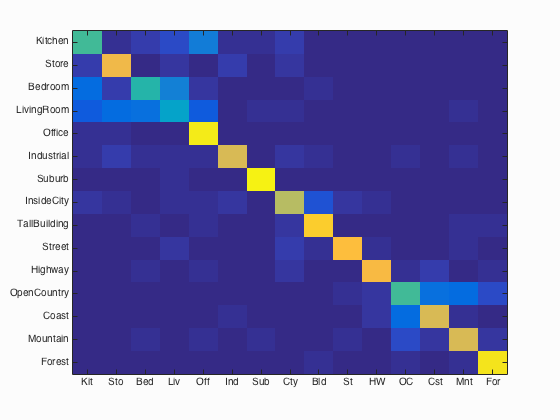
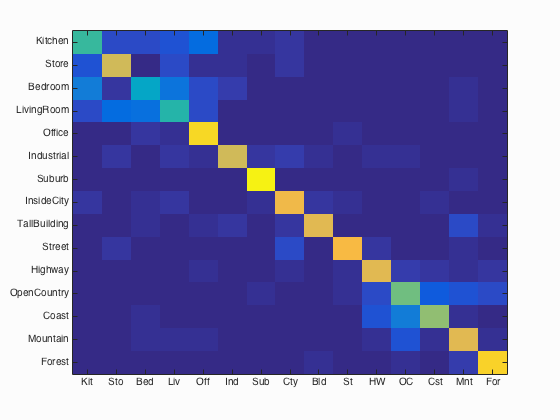
Updated accuracies

diff --git a/code/results_webpage/index.html b/code/results_webpage/index.html
@@ -36,7 +36,7 @@ h1 {
 <img src="confusion_matrix.png">
 
 <br>
-Accuracy (mean of diagonal of confusion matrix) is 0.739
+Accuracy (mean of diagonal of confusion matrix) is 0.721
 <p>
 
 <table border=0 cellpadding=4 cellspacing=1>
@@ -50,183 +50,183 @@ Accuracy (mean of diagonal of confusion matrix) is 0.739
 </tr>
 <tr>
 <td>Kitchen</td>
-<td>0.520</td>
-<td bgcolor=LightBlue><img src="thumbnails/Kitchen_image_0140.jpg" width=75.0000000000 height=100.0000000000></td>
-<td bgcolor=LightBlue><img src="thumbnails/Kitchen_image_0106.jpg" width=75.0000000000 height=100.0000000000></td>
-<td bgcolor=LightGreen><img src="thumbnails/Kitchen_image_0071.jpg" width=75.0000000000 height=100.0000000000></td>
+<td>0.500</td>
+<td bgcolor=LightBlue><img src="thumbnails/Kitchen_image_0081.jpg" width=75.0000000000 height=133.0000000000></td>
+<td bgcolor=LightBlue><img src="thumbnails/Kitchen_image_0117.jpg" width=75.0000000000 height=113.0000000000></td>
 <td bgcolor=LightGreen><img src="thumbnails/Kitchen_image_0070.jpg" width=75.0000000000 height=113.0000000000></td>
+<td bgcolor=LightGreen><img src="thumbnails/Kitchen_image_0033.jpg" width=75.0000000000 height=57.0000000000></td>
 <td bgcolor=LightCoral><img src="thumbnails/Store_image_0022.jpg" width=75.0000000000 height=88.0000000000><br><small>Store</small></td>
-<td bgcolor=LightCoral><img src="thumbnails/LivingRoom_image_0049.jpg" width=75.0000000000 height=106.0000000000><br><small>LivingRoom</small></td>
-<td bgcolor=#FFBB55><img src="thumbnails/Kitchen_image_0017.jpg" width=75.0000000000 height=100.0000000000><br><small>Office</small></td>
-<td bgcolor=#FFBB55><img src="thumbnails/Kitchen_image_0075.jpg" width=75.0000000000 height=107.0000000000><br><small>Industrial</small></td>
+<td bgcolor=LightCoral><img src="thumbnails/LivingRoom_image_0025.jpg" width=76.0000000000 height=57.0000000000><br><small>LivingRoom</small></td>
+<td bgcolor=#FFBB55><img src="thumbnails/Kitchen_image_0031.jpg" width=75.0000000000 height=57.0000000000><br><small>Office</small></td>
+<td bgcolor=#FFBB55><img src="thumbnails/Kitchen_image_0009.jpg" width=75.0000000000 height=100.0000000000><br><small>Office</small></td>
 </tr>
 <tr>
 <td>Store</td>
-<td>0.800</td>
-<td bgcolor=LightBlue><img src="thumbnails/Store_image_0093.jpg" width=75.0000000000 height=100.0000000000></td>
-<td bgcolor=LightBlue><img src="thumbnails/Store_image_0137.jpg" width=75.0000000000 height=93.0000000000></td>
-<td bgcolor=LightGreen><img src="thumbnails/Store_image_0003.jpg" width=75.0000000000 height=100.0000000000></td>
-<td bgcolor=LightGreen><img src="thumbnails/Store_image_0024.jpg" width=75.0000000000 height=113.0000000000></td>
-<td bgcolor=LightCoral><img src="thumbnails/Office_image_0001.jpg" width=75.0000000000 height=101.0000000000><br><small>Office</small></td>
-<td bgcolor=LightCoral><img src="thumbnails/Industrial_image_0029.jpg" width=75.0000000000 height=63.0000000000><br><small>Industrial</small></td>
-<td bgcolor=#FFBB55><img src="thumbnails/Store_image_0027.jpg" width=75.0000000000 height=100.0000000000><br><small>LivingRoom</small></td>
-<td bgcolor=#FFBB55><img src="thumbnails/Store_image_0043.jpg" width=75.0000000000 height=100.0000000000><br><small>InsideCity</small></td>
+<td>0.740</td>
+<td bgcolor=LightBlue><img src="thumbnails/Store_image_0094.jpg" width=75.0000000000 height=113.0000000000></td>
+<td bgcolor=LightBlue><img src="thumbnails/Store_image_0105.jpg" width=75.0000000000 height=57.0000000000></td>
+<td bgcolor=LightGreen><img src="thumbnails/Store_image_0065.jpg" width=75.0000000000 height=100.0000000000></td>
+<td bgcolor=LightGreen><img src="thumbnails/Store_image_0010.jpg" width=75.0000000000 height=104.0000000000></td>
+<td bgcolor=LightCoral><img src="thumbnails/Bedroom_image_0047.jpg" width=75.0000000000 height=101.0000000000><br><small>Bedroom</small></td>
+<td bgcolor=LightCoral><img src="thumbnails/Industrial_image_0038.jpg" width=75.0000000000 height=94.0000000000><br><small>Industrial</small></td>
+<td bgcolor=#FFBB55><img src="thumbnails/Store_image_0026.jpg" width=75.0000000000 height=103.0000000000><br><small>LivingRoom</small></td>
+<td bgcolor=#FFBB55><img src="thumbnails/Store_image_0022.jpg" width=75.0000000000 height=88.0000000000><br><small>Kitchen</small></td>
 </tr>
 <tr>
 <td>Bedroom</td>
-<td>0.480</td>
-<td bgcolor=LightBlue><img src="thumbnails/Bedroom_image_0139.jpg" width=75.0000000000 height=50.0000000000></td>
-<td bgcolor=LightBlue><img src="thumbnails/Bedroom_image_0109.jpg" width=75.0000000000 height=106.0000000000></td>
-<td bgcolor=LightGreen><img src="thumbnails/Bedroom_image_0077.jpg" width=75.0000000000 height=90.0000000000></td>
-<td bgcolor=LightGreen><img src="thumbnails/Bedroom_image_0071.jpg" width=75.0000000000 height=112.0000000000></td>
-<td bgcolor=LightCoral><img src="thumbnails/Kitchen_image_0062.jpg" width=75.0000000000 height=113.0000000000><br><small>Kitchen</small></td>
-<td bgcolor=LightCoral><img src="thumbnails/Industrial_image_0046.jpg" width=75.0000000000 height=57.0000000000><br><small>Industrial</small></td>
-<td bgcolor=#FFBB55><img src="thumbnails/Bedroom_image_0056.jpg" width=75.0000000000 height=113.0000000000><br><small>LivingRoom</small></td>
-<td bgcolor=#FFBB55><img src="thumbnails/Bedroom_image_0026.jpg" width=75.0000000000 height=95.0000000000><br><small>Kitchen</small></td>
+<td>0.380</td>
+<td bgcolor=LightBlue><img src="thumbnails/Bedroom_image_0216.jpg" width=75.0000000000 height=100.0000000000></td>
+<td bgcolor=LightBlue><img src="thumbnails/Bedroom_image_0046.jpg" width=75.0000000000 height=101.0000000000></td>
+<td bgcolor=LightGreen><img src="thumbnails/Bedroom_image_0007.jpg" width=75.0000000000 height=101.0000000000></td>
+<td bgcolor=LightGreen><img src="thumbnails/Bedroom_image_0035.jpg" width=75.0000000000 height=115.0000000000></td>
+<td bgcolor=LightCoral><img src="thumbnails/Kitchen_image_0027.jpg" width=75.0000000000 height=57.0000000000><br><small>Kitchen</small></td>
+<td bgcolor=LightCoral><img src="thumbnails/LivingRoom_image_0064.jpg" width=75.0000000000 height=100.0000000000><br><small>LivingRoom</small></td>
+<td bgcolor=#FFBB55><img src="thumbnails/Bedroom_image_0037.jpg" width=75.0000000000 height=95.0000000000><br><small>Industrial</small></td>
+<td bgcolor=#FFBB55><img src="thumbnails/Bedroom_image_0073.jpg" width=75.0000000000 height=112.0000000000><br><small>Mountain</small></td>
 </tr>
 <tr>
 <td>LivingRoom</td>
-<td>0.360</td>
-<td bgcolor=LightBlue><img src="thumbnails/LivingRoom_image_0115.jpg" width=75.0000000000 height=111.0000000000></td>
-<td bgcolor=LightBlue><img src="thumbnails/LivingRoom_image_0170.jpg" width=75.0000000000 height=113.0000000000></td>
-<td bgcolor=LightGreen><img src="thumbnails/LivingRoom_image_0033.jpg" width=75.0000000000 height=100.0000000000></td>
-<td bgcolor=LightGreen><img src="thumbnails/LivingRoom_image_0005.jpg" width=75.0000000000 height=93.0000000000></td>
-<td bgcolor=LightCoral><img src="thumbnails/Kitchen_image_0022.jpg" width=75.0000000000 height=57.0000000000><br><small>Kitchen</small></td>
-<td bgcolor=LightCoral><img src="thumbnails/Kitchen_image_0035.jpg" width=75.0000000000 height=57.0000000000><br><small>Kitchen</small></td>
-<td bgcolor=#FFBB55><img src="thumbnails/LivingRoom_image_0040.jpg" width=75.0000000000 height=114.0000000000><br><small>Kitchen</small></td>
-<td bgcolor=#FFBB55><img src="thumbnails/LivingRoom_image_0064.jpg" width=75.0000000000 height=100.0000000000><br><small>Office</small></td>
+<td>0.480</td>
+<td bgcolor=LightBlue><img src="thumbnails/LivingRoom_image_0001.jpg" width=75.0000000000 height=111.0000000000></td>
+<td bgcolor=LightBlue><img src="thumbnails/LivingRoom_image_0220.jpg" width=75.0000000000 height=113.0000000000></td>
+<td bgcolor=LightGreen><img src="thumbnails/LivingRoom_image_0027.jpg" width=75.0000000000 height=100.0000000000></td>
+<td bgcolor=LightGreen><img src="thumbnails/LivingRoom_image_0032.jpg" width=75.0000000000 height=100.0000000000></td>
+<td bgcolor=LightCoral><img src="thumbnails/Bedroom_image_0062.jpg" width=75.0000000000 height=114.0000000000><br><small>Bedroom</small></td>
+<td bgcolor=LightCoral><img src="thumbnails/InsideCity_image_0002.jpg" width=75.0000000000 height=75.0000000000><br><small>InsideCity</small></td>
+<td bgcolor=#FFBB55><img src="thumbnails/LivingRoom_image_0040.jpg" width=75.0000000000 height=114.0000000000><br><small>Store</small></td>
+<td bgcolor=#FFBB55><img src="thumbnails/LivingRoom_image_0056.jpg" width=75.0000000000 height=112.0000000000><br><small>Bedroom</small></td>
 </tr>
 <tr>
 <td>Office</td>
-<td>0.960</td>
-<td bgcolor=LightBlue><img src="thumbnails/Office_image_0129.jpg" width=75.0000000000 height=105.0000000000></td>
-<td bgcolor=LightBlue><img src="thumbnails/Office_image_0210.jpg" width=75.0000000000 height=97.0000000000></td>
-<td bgcolor=LightGreen><img src="thumbnails/Office_image_0063.jpg" width=75.0000000000 height=128.0000000000></td>
-<td bgcolor=LightGreen><img src="thumbnails/Office_image_0037.jpg" width=75.0000000000 height=108.0000000000></td>
-<td bgcolor=LightCoral><img src="thumbnails/InsideCity_image_0002.jpg" width=75.0000000000 height=75.0000000000><br><small>InsideCity</small></td>
-<td bgcolor=LightCoral><img src="thumbnails/Bedroom_image_0067.jpg" width=75.0000000000 height=70.0000000000><br><small>Bedroom</small></td>
-<td bgcolor=#FFBB55><img src="thumbnails/Office_image_0001.jpg" width=75.0000000000 height=101.0000000000><br><small>Store</small></td>
-<td bgcolor=#FFBB55><img src="thumbnails/Office_image_0083.jpg" width=75.0000000000 height=108.0000000000><br><small>Kitchen</small></td>
+<td>0.920</td>
+<td bgcolor=LightBlue><img src="thumbnails/Office_image_0175.jpg" width=75.0000000000 height=123.0000000000></td>
+<td bgcolor=LightBlue><img src="thumbnails/Office_image_0132.jpg" width=75.0000000000 height=116.0000000000></td>
+<td bgcolor=LightGreen><img src="thumbnails/Office_image_0067.jpg" width=75.0000000000 height=117.0000000000></td>
+<td bgcolor=LightGreen><img src="thumbnails/Office_image_0038.jpg" width=75.0000000000 height=119.0000000000></td>
+<td bgcolor=LightCoral><img src="thumbnails/Kitchen_image_0029.jpg" width=75.0000000000 height=57.0000000000><br><small>Kitchen</small></td>
+<td bgcolor=LightCoral><img src="thumbnails/Kitchen_image_0012.jpg" width=75.0000000000 height=100.0000000000><br><small>Kitchen</small></td>
+<td bgcolor=#FFBB55><img src="thumbnails/Office_image_0064.jpg" width=75.0000000000 height=93.0000000000><br><small>LivingRoom</small></td>
+<td bgcolor=#FFBB55><img src="thumbnails/Office_image_0062.jpg" width=75.0000000000 height=110.0000000000><br><small>Bedroom</small></td>
 </tr>
 <tr>
 <td>Industrial</td>
-<td>0.760</td>
-<td bgcolor=LightBlue><img src="thumbnails/Industrial_image_0184.jpg" width=75.0000000000 height=113.0000000000></td>
-<td bgcolor=LightBlue><img src="thumbnails/Industrial_image_0147.jpg" width=75.0000000000 height=100.0000000000></td>
-<td bgcolor=LightGreen><img src="thumbnails/Industrial_image_0023.jpg" width=75.0000000000 height=85.0000000000></td>
-<td bgcolor=LightGreen><img src="thumbnails/Industrial_image_0067.jpg" width=75.0000000000 height=110.0000000000></td>
-<td bgcolor=LightCoral><img src="thumbnails/Coast_image_0007.jpg" width=75.0000000000 height=75.0000000000><br><small>Coast</small></td>
-<td bgcolor=LightCoral><img src="thumbnails/InsideCity_image_0004.jpg" width=75.0000000000 height=75.0000000000><br><small>InsideCity</small></td>
-<td bgcolor=#FFBB55><img src="thumbnails/Industrial_image_0054.jpg" width=75.0000000000 height=100.0000000000><br><small>Store</small></td>
-<td bgcolor=#FFBB55><img src="thumbnails/Industrial_image_0007.jpg" width=75.0000000000 height=117.0000000000><br><small>InsideCity</small></td>
+<td>0.740</td>
+<td bgcolor=LightBlue><img src="thumbnails/Industrial_image_0041.jpg" width=75.0000000000 height=81.0000000000></td>
+<td bgcolor=LightBlue><img src="thumbnails/Industrial_image_0230.jpg" width=75.0000000000 height=77.0000000000></td>
+<td bgcolor=LightGreen><img src="thumbnails/Industrial_image_0066.jpg" width=75.0000000000 height=123.0000000000></td>
+<td bgcolor=LightGreen><img src="thumbnails/Industrial_image_0071.jpg" width=75.0000000000 height=50.0000000000></td>
+<td bgcolor=LightCoral><img src="thumbnails/TallBuilding_image_0016.jpg" width=75.0000000000 height=75.0000000000><br><small>TallBuilding</small></td>
+<td bgcolor=LightCoral><img src="thumbnails/Kitchen_image_0075.jpg" width=75.0000000000 height=107.0000000000><br><small>Kitchen</small></td>
+<td bgcolor=#FFBB55><img src="thumbnails/Industrial_image_0074.jpg" width=75.0000000000 height=100.0000000000><br><small>OpenCountry</small></td>
+<td bgcolor=#FFBB55><img src="thumbnails/Industrial_image_0026.jpg" width=75.0000000000 height=97.0000000000><br><small>Suburb</small></td>
 </tr>
 <tr>
 <td>Suburb</td>
 <td>0.980</td>
-<td bgcolor=LightBlue><img src="thumbnails/Suburb_image_0087.jpg" width=75.0000000000 height=113.0000000000></td>
-<td bgcolor=LightBlue><img src="thumbnails/Suburb_image_0190.jpg" width=75.0000000000 height=113.0000000000></td>
-<td bgcolor=LightGreen><img src="thumbnails/Suburb_image_0059.jpg" width=75.0000000000 height=113.0000000000></td>
-<td bgcolor=LightGreen><img src="thumbnails/Suburb_image_0082.jpg" width=75.0000000000 height=113.0000000000></td>
-<td bgcolor=LightCoral><img src="thumbnails/LivingRoom_image_0065.jpg" width=75.0000000000 height=75.0000000000><br><small>LivingRoom</small></td>
-<td bgcolor=LightCoral><img src="thumbnails/Mountain_image_0017.jpg" width=75.0000000000 height=75.0000000000><br><small>Mountain</small></td>
-<td bgcolor=#FFBB55><img src="thumbnails/Suburb_image_0004.jpg" width=75.0000000000 height=113.0000000000><br><small>LivingRoom</small></td>
+<td bgcolor=LightBlue><img src="thumbnails/Suburb_image_0002.jpg" width=75.0000000000 height=113.0000000000></td>
+<td bgcolor=LightBlue><img src="thumbnails/Suburb_image_0019.jpg" width=75.0000000000 height=113.0000000000></td>
+<td bgcolor=LightGreen><img src="thumbnails/Suburb_image_0079.jpg" width=75.0000000000 height=113.0000000000></td>
+<td bgcolor=LightGreen><img src="thumbnails/Suburb_image_0012.jpg" width=75.0000000000 height=113.0000000000></td>
+<td bgcolor=LightCoral><img src="thumbnails/Industrial_image_0027.jpg" width=75.0000000000 height=92.0000000000><br><small>Industrial</small></td>
+<td bgcolor=LightCoral><img src="thumbnails/Industrial_image_0026.jpg" width=75.0000000000 height=97.0000000000><br><small>Industrial</small></td>
+<td bgcolor=#FFBB55><img src="thumbnails/Suburb_image_0070.jpg" width=75.0000000000 height=113.0000000000><br><small>Mountain</small></td>
 <td bgcolor=#FFBB55></td>
 </tr>
 <tr>
 <td>InsideCity</td>
-<td>0.700</td>
-<td bgcolor=LightBlue><img src="thumbnails/InsideCity_image_0216.jpg" width=75.0000000000 height=75.0000000000></td>
-<td bgcolor=LightBlue><img src="thumbnails/InsideCity_image_0294.jpg" width=75.0000000000 height=75.0000000000></td>
-<td bgcolor=LightGreen><img src="thumbnails/InsideCity_image_0024.jpg" width=75.0000000000 height=75.0000000000></td>
-<td bgcolor=LightGreen><img src="thumbnails/InsideCity_image_0006.jpg" width=75.0000000000 height=75.0000000000></td>
-<td bgcolor=LightCoral><img src="thumbnails/TallBuilding_image_0024.jpg" width=75.0000000000 height=75.0000000000><br><small>TallBuilding</small></td>
-<td bgcolor=LightCoral><img src="thumbnails/Industrial_image_0007.jpg" width=75.0000000000 height=117.0000000000><br><small>Industrial</small></td>
-<td bgcolor=#FFBB55><img src="thumbnails/InsideCity_image_0015.jpg" width=75.0000000000 height=75.0000000000><br><small>LivingRoom</small></td>
-<td bgcolor=#FFBB55><img src="thumbnails/InsideCity_image_0033.jpg" width=75.0000000000 height=75.0000000000><br><small>TallBuilding</small></td>
+<td>0.800</td>
+<td bgcolor=LightBlue><img src="thumbnails/InsideCity_image_0121.jpg" width=75.0000000000 height=75.0000000000></td>
+<td bgcolor=LightBlue><img src="thumbnails/InsideCity_image_0136.jpg" width=75.0000000000 height=75.0000000000></td>
+<td bgcolor=LightGreen><img src="thumbnails/InsideCity_image_0055.jpg" width=75.0000000000 height=75.0000000000></td>
+<td bgcolor=LightGreen><img src="thumbnails/InsideCity_image_0059.jpg" width=75.0000000000 height=75.0000000000></td>
+<td bgcolor=LightCoral><img src="thumbnails/Street_image_0054.jpg" width=75.0000000000 height=75.0000000000><br><small>Street</small></td>
+<td bgcolor=LightCoral><img src="thumbnails/Highway_image_0029.jpg" width=75.0000000000 height=75.0000000000><br><small>Highway</small></td>
+<td bgcolor=#FFBB55><img src="thumbnails/InsideCity_image_0002.jpg" width=75.0000000000 height=75.0000000000><br><small>LivingRoom</small></td>
+<td bgcolor=#FFBB55><img src="thumbnails/InsideCity_image_0057.jpg" width=75.0000000000 height=75.0000000000><br><small>Street</small></td>
 </tr>
 <tr>
 <td>TallBuilding</td>
-<td>0.880</td>
-<td bgcolor=LightBlue><img src="thumbnails/TallBuilding_image_0325.jpg" width=75.0000000000 height=75.0000000000></td>
-<td bgcolor=LightBlue><img src="thumbnails/TallBuilding_image_0041.jpg" width=75.0000000000 height=75.0000000000></td>
-<td bgcolor=LightGreen><img src="thumbnails/TallBuilding_image_0023.jpg" width=75.0000000000 height=75.0000000000></td>
-<td bgcolor=LightGreen><img src="thumbnails/TallBuilding_image_0057.jpg" width=75.0000000000 height=75.0000000000></td>
-<td bgcolor=LightCoral><img src="thumbnails/InsideCity_image_0033.jpg" width=75.0000000000 height=75.0000000000><br><small>InsideCity</small></td>
-<td bgcolor=LightCoral><img src="thumbnails/Street_image_0020.jpg" width=75.0000000000 height=75.0000000000><br><small>Street</small></td>
-<td bgcolor=#FFBB55><img src="thumbnails/TallBuilding_image_0047.jpg" width=75.0000000000 height=75.0000000000><br><small>Bedroom</small></td>
+<td>0.780</td>
+<td bgcolor=LightBlue><img src="thumbnails/TallBuilding_image_0175.jpg" width=75.0000000000 height=75.0000000000></td>
+<td bgcolor=LightBlue><img src="thumbnails/TallBuilding_image_0186.jpg" width=75.0000000000 height=75.0000000000></td>
+<td bgcolor=LightGreen><img src="thumbnails/TallBuilding_image_0015.jpg" width=75.0000000000 height=75.0000000000></td>
+<td bgcolor=LightGreen><img src="thumbnails/TallBuilding_image_0059.jpg" width=75.0000000000 height=75.0000000000></td>
+<td bgcolor=LightCoral><img src="thumbnails/InsideCity_image_0049.jpg" width=75.0000000000 height=75.0000000000><br><small>InsideCity</small></td>
+<td bgcolor=LightCoral><img src="thumbnails/Industrial_image_0067.jpg" width=75.0000000000 height=110.0000000000><br><small>Industrial</small></td>
 <td bgcolor=#FFBB55><img src="thumbnails/TallBuilding_image_0027.jpg" width=75.0000000000 height=75.0000000000><br><small>Office</small></td>
+<td bgcolor=#FFBB55><img src="thumbnails/TallBuilding_image_0018.jpg" width=75.0000000000 height=75.0000000000><br><small>Mountain</small></td>
 </tr>
 <tr>
 <td>Street</td>
-<td>0.840</td>
-<td bgcolor=LightBlue><img src="thumbnails/Street_image_0028.jpg" width=75.0000000000 height=75.0000000000></td>
-<td bgcolor=LightBlue><img src="thumbnails/Street_image_0123.jpg" width=75.0000000000 height=75.0000000000></td>
-<td bgcolor=LightGreen><img src="thumbnails/Street_image_0054.jpg" width=75.0000000000 height=75.0000000000></td>
-<td bgcolor=LightGreen><img src="thumbnails/Street_image_0073.jpg" width=75.0000000000 height=75.0000000000></td>
+<td>0.820</td>
+<td bgcolor=LightBlue><img src="thumbnails/Street_image_0019.jpg" width=75.0000000000 height=75.0000000000></td>
+<td bgcolor=LightBlue><img src="thumbnails/Street_image_0209.jpg" width=75.0000000000 height=75.0000000000></td>
+<td bgcolor=LightGreen><img src="thumbnails/Street_image_0051.jpg" width=75.0000000000 height=75.0000000000></td>
+<td bgcolor=LightGreen><img src="thumbnails/Street_image_0050.jpg" width=75.0000000000 height=75.0000000000></td>
+<td bgcolor=LightCoral><img src="thumbnails/Office_image_0048.jpg" width=75.0000000000 height=118.0000000000><br><small>Office</small></td>
 <td bgcolor=LightCoral><img src="thumbnails/OpenCountry_image_0012.jpg" width=75.0000000000 height=75.0000000000><br><small>OpenCountry</small></td>
-<td bgcolor=LightCoral><img src="thumbnails/Mountain_image_0062.jpg" width=75.0000000000 height=75.0000000000><br><small>Mountain</small></td>
-<td bgcolor=#FFBB55><img src="thumbnails/Street_image_0020.jpg" width=75.0000000000 height=75.0000000000><br><small>TallBuilding</small></td>
 <td bgcolor=#FFBB55><img src="thumbnails/Street_image_0068.jpg" width=75.0000000000 height=75.0000000000><br><small>InsideCity</small></td>
+<td bgcolor=#FFBB55><img src="thumbnails/Street_image_0054.jpg" width=75.0000000000 height=75.0000000000><br><small>InsideCity</small></td>
 </tr>
 <tr>
 <td>Highway</td>
-<td>0.820</td>
-<td bgcolor=LightBlue><img src="thumbnails/Highway_image_0019.jpg" width=75.0000000000 height=75.0000000000></td>
-<td bgcolor=LightBlue><img src="thumbnails/Highway_image_0023.jpg" width=75.0000000000 height=75.0000000000></td>
-<td bgcolor=LightGreen><img src="thumbnails/Highway_image_0011.jpg" width=75.0000000000 height=75.0000000000></td>
-<td bgcolor=LightGreen><img src="thumbnails/Highway_image_0020.jpg" width=75.0000000000 height=75.0000000000></td>
-<td bgcolor=LightCoral><img src="thumbnails/Street_image_0057.jpg" width=75.0000000000 height=75.0000000000><br><small>Street</small></td>
-<td bgcolor=LightCoral><img src="thumbnails/OpenCountry_image_0042.jpg" width=75.0000000000 height=75.0000000000><br><small>OpenCountry</small></td>
-<td bgcolor=#FFBB55><img src="thumbnails/Highway_image_0022.jpg" width=75.0000000000 height=75.0000000000><br><small>Coast</small></td>
-<td bgcolor=#FFBB55><img src="thumbnails/Highway_image_0031.jpg" width=75.0000000000 height=75.0000000000><br><small>Coast</small></td>
+<td>0.780</td>
+<td bgcolor=LightBlue><img src="thumbnails/Highway_image_0243.jpg" width=75.0000000000 height=75.0000000000></td>
+<td bgcolor=LightBlue><img src="thumbnails/Highway_image_0117.jpg" width=75.0000000000 height=75.0000000000></td>
+<td bgcolor=LightGreen><img src="thumbnails/Highway_image_0068.jpg" width=75.0000000000 height=75.0000000000></td>
+<td bgcolor=LightGreen><img src="thumbnails/Highway_image_0024.jpg" width=75.0000000000 height=75.0000000000></td>
+<td bgcolor=LightCoral><img src="thumbnails/OpenCountry_image_0013.jpg" width=75.0000000000 height=75.0000000000><br><small>OpenCountry</small></td>
+<td bgcolor=LightCoral><img src="thumbnails/Street_image_0047.jpg" width=75.0000000000 height=75.0000000000><br><small>Street</small></td>
+<td bgcolor=#FFBB55><img src="thumbnails/Highway_image_0015.jpg" width=75.0000000000 height=75.0000000000><br><small>Office</small></td>
+<td bgcolor=#FFBB55><img src="thumbnails/Highway_image_0032.jpg" width=75.0000000000 height=75.0000000000><br><small>Forest</small></td>
 </tr>
 <tr>
 <td>OpenCountry</td>
-<td>0.520</td>
-<td bgcolor=LightBlue><img src="thumbnails/OpenCountry_image_0214.jpg" width=75.0000000000 height=75.0000000000></td>
-<td bgcolor=LightBlue><img src="thumbnails/OpenCountry_image_0241.jpg" width=75.0000000000 height=75.0000000000></td>
-<td bgcolor=LightGreen><img src="thumbnails/OpenCountry_image_0051.jpg" width=75.0000000000 height=75.0000000000></td>
-<td bgcolor=LightGreen><img src="thumbnails/OpenCountry_image_0025.jpg" width=75.0000000000 height=75.0000000000></td>
-<td bgcolor=LightCoral><img src="thumbnails/Mountain_image_0061.jpg" width=75.0000000000 height=75.0000000000><br><small>Mountain</small></td>
-<td bgcolor=LightCoral><img src="thumbnails/Coast_image_0041.jpg" width=75.0000000000 height=75.0000000000><br><small>Coast</small></td>
-<td bgcolor=#FFBB55><img src="thumbnails/OpenCountry_image_0012.jpg" width=75.0000000000 height=75.0000000000><br><small>Street</small></td>
-<td bgcolor=#FFBB55><img src="thumbnails/OpenCountry_image_0013.jpg" width=75.0000000000 height=75.0000000000><br><small>Coast</small></td>
+<td>0.580</td>
+<td bgcolor=LightBlue><img src="thumbnails/OpenCountry_image_0095.jpg" width=75.0000000000 height=75.0000000000></td>
+<td bgcolor=LightBlue><img src="thumbnails/OpenCountry_image_0207.jpg" width=75.0000000000 height=75.0000000000></td>
+<td bgcolor=LightGreen><img src="thumbnails/OpenCountry_image_0021.jpg" width=75.0000000000 height=75.0000000000></td>
+<td bgcolor=LightGreen><img src="thumbnails/OpenCountry_image_0027.jpg" width=75.0000000000 height=75.0000000000></td>
+<td bgcolor=LightCoral><img src="thumbnails/Coast_image_0045.jpg" width=75.0000000000 height=75.0000000000><br><small>Coast</small></td>
+<td bgcolor=LightCoral><img src="thumbnails/Coast_image_0019.jpg" width=75.0000000000 height=75.0000000000><br><small>Coast</small></td>
+<td bgcolor=#FFBB55><img src="thumbnails/OpenCountry_image_0029.jpg" width=75.0000000000 height=75.0000000000><br><small>Suburb</small></td>
+<td bgcolor=#FFBB55><img src="thumbnails/OpenCountry_image_0008.jpg" width=75.0000000000 height=75.0000000000><br><small>Coast</small></td>
 </tr>
 <tr>
 <td>Coast</td>
-<td>0.760</td>
+<td>0.640</td>
 <td bgcolor=LightBlue><img src="thumbnails/Coast_image_0342.jpg" width=75.0000000000 height=75.0000000000></td>
-<td bgcolor=LightBlue><img src="thumbnails/Coast_image_0336.jpg" width=75.0000000000 height=75.0000000000></td>
-<td bgcolor=LightGreen><img src="thumbnails/Coast_image_0040.jpg" width=75.0000000000 height=75.0000000000></td>
-<td bgcolor=LightGreen><img src="thumbnails/Coast_image_0056.jpg" width=75.0000000000 height=75.0000000000></td>
-<td bgcolor=LightCoral><img src="thumbnails/Mountain_image_0030.jpg" width=75.0000000000 height=75.0000000000><br><small>Mountain</small></td>
+<td bgcolor=LightBlue><img src="thumbnails/Coast_image_0127.jpg" width=75.0000000000 height=75.0000000000></td>
+<td bgcolor=LightGreen><img src="thumbnails/Coast_image_0059.jpg" width=75.0000000000 height=75.0000000000></td>
+<td bgcolor=LightGreen><img src="thumbnails/Coast_image_0021.jpg" width=75.0000000000 height=75.0000000000></td>
+<td bgcolor=LightCoral><img src="thumbnails/Highway_image_0022.jpg" width=75.0000000000 height=75.0000000000><br><small>Highway</small></td>
 <td bgcolor=LightCoral><img src="thumbnails/OpenCountry_image_0008.jpg" width=75.0000000000 height=75.0000000000><br><small>OpenCountry</small></td>
-<td bgcolor=#FFBB55><img src="thumbnails/Coast_image_0039.jpg" width=75.0000000000 height=75.0000000000><br><small>Highway</small></td>
-<td bgcolor=#FFBB55><img src="thumbnails/Coast_image_0030.jpg" width=75.0000000000 height=75.0000000000><br><small>OpenCountry</small></td>
+<td bgcolor=#FFBB55><img src="thumbnails/Coast_image_0018.jpg" width=75.0000000000 height=75.0000000000><br><small>Mountain</small></td>
+<td bgcolor=#FFBB55><img src="thumbnails/Coast_image_0054.jpg" width=75.0000000000 height=75.0000000000><br><small>OpenCountry</small></td>
 </tr>
 <tr>
 <td>Mountain</td>
-<td>0.760</td>
-<td bgcolor=LightBlue><img src="thumbnails/Mountain_image_0321.jpg" width=75.0000000000 height=75.0000000000></td>
-<td bgcolor=LightBlue><img src="thumbnails/Mountain_image_0329.jpg" width=75.0000000000 height=75.0000000000></td>
-<td bgcolor=LightGreen><img src="thumbnails/Mountain_image_0015.jpg" width=75.0000000000 height=75.0000000000></td>
-<td bgcolor=LightGreen><img src="thumbnails/Mountain_image_0016.jpg" width=75.0000000000 height=75.0000000000></td>
-<td bgcolor=LightCoral><img src="thumbnails/LivingRoom_image_0062.jpg" width=75.0000000000 height=100.0000000000><br><small>LivingRoom</small></td>
-<td bgcolor=LightCoral><img src="thumbnails/OpenCountry_image_0045.jpg" width=75.0000000000 height=75.0000000000><br><small>OpenCountry</small></td>
-<td bgcolor=#FFBB55><img src="thumbnails/Mountain_image_0061.jpg" width=75.0000000000 height=75.0000000000><br><small>OpenCountry</small></td>
+<td>0.780</td>
+<td bgcolor=LightBlue><img src="thumbnails/Mountain_image_0179.jpg" width=75.0000000000 height=75.0000000000></td>
+<td bgcolor=LightBlue><img src="thumbnails/Mountain_image_0024.jpg" width=75.0000000000 height=75.0000000000></td>
+<td bgcolor=LightGreen><img src="thumbnails/Mountain_image_0043.jpg" width=75.0000000000 height=75.0000000000></td>
+<td bgcolor=LightGreen><img src="thumbnails/Mountain_image_0034.jpg" width=75.0000000000 height=75.0000000000></td>
+<td bgcolor=LightCoral><img src="thumbnails/OpenCountry_image_0052.jpg" width=75.0000000000 height=75.0000000000><br><small>OpenCountry</small></td>
+<td bgcolor=LightCoral><img src="thumbnails/TallBuilding_image_0048.jpg" width=75.0000000000 height=75.0000000000><br><small>TallBuilding</small></td>
+<td bgcolor=#FFBB55><img src="thumbnails/Mountain_image_0009.jpg" width=75.0000000000 height=75.0000000000><br><small>Coast</small></td>
 <td bgcolor=#FFBB55><img src="thumbnails/Mountain_image_0008.jpg" width=75.0000000000 height=75.0000000000><br><small>OpenCountry</small></td>
 </tr>
 <tr>
 <td>Forest</td>
-<td>0.940</td>
-<td bgcolor=LightBlue><img src="thumbnails/Forest_image_0254.jpg" width=75.0000000000 height=75.0000000000></td>
-<td bgcolor=LightBlue><img src="thumbnails/Forest_image_0054.jpg" width=75.0000000000 height=75.0000000000></td>
-<td bgcolor=LightGreen><img src="thumbnails/Forest_image_0032.jpg" width=75.0000000000 height=75.0000000000></td>
-<td bgcolor=LightGreen><img src="thumbnails/Forest_image_0009.jpg" width=75.0000000000 height=75.0000000000></td>
-<td bgcolor=LightCoral><img src="thumbnails/OpenCountry_image_0005.jpg" width=75.0000000000 height=75.0000000000><br><small>OpenCountry</small></td>
+<td>0.900</td>
+<td bgcolor=LightBlue><img src="thumbnails/Forest_image_0006.jpg" width=75.0000000000 height=75.0000000000></td>
+<td bgcolor=LightBlue><img src="thumbnails/Forest_image_0162.jpg" width=75.0000000000 height=75.0000000000></td>
+<td bgcolor=LightGreen><img src="thumbnails/Forest_image_0019.jpg" width=75.0000000000 height=75.0000000000></td>
+<td bgcolor=LightGreen><img src="thumbnails/Forest_image_0001.jpg" width=75.0000000000 height=75.0000000000></td>
 <td bgcolor=LightCoral><img src="thumbnails/OpenCountry_image_0041.jpg" width=75.0000000000 height=75.0000000000><br><small>OpenCountry</small></td>
+<td bgcolor=LightCoral><img src="thumbnails/OpenCountry_image_0044.jpg" width=75.0000000000 height=75.0000000000><br><small>OpenCountry</small></td>
+<td bgcolor=#FFBB55><img src="thumbnails/Forest_image_0048.jpg" width=75.0000000000 height=75.0000000000><br><small>Mountain</small></td>
 <td bgcolor=#FFBB55><img src="thumbnails/Forest_image_0047.jpg" width=75.0000000000 height=75.0000000000><br><small>TallBuilding</small></td>
-<td bgcolor=#FFBB55><img src="thumbnails/Forest_image_0036.jpg" width=75.0000000000 height=75.0000000000><br><small>Mountain</small></td>
 </tr>
 <tr>
 <th>Category name</th>

diff --git a/code/proj3.m b/code/proj3.m
@@ -18,6 +18,7 @@ for i = 1:num_epoch
     accuracies(i) = accuracy;
 end
 
+% 0.7467    0.7400    0.7560    0.7413    0.7213
 create_results_webpage( train_image_paths, ...
                         test_image_paths, ...
                         train_labels, ...
